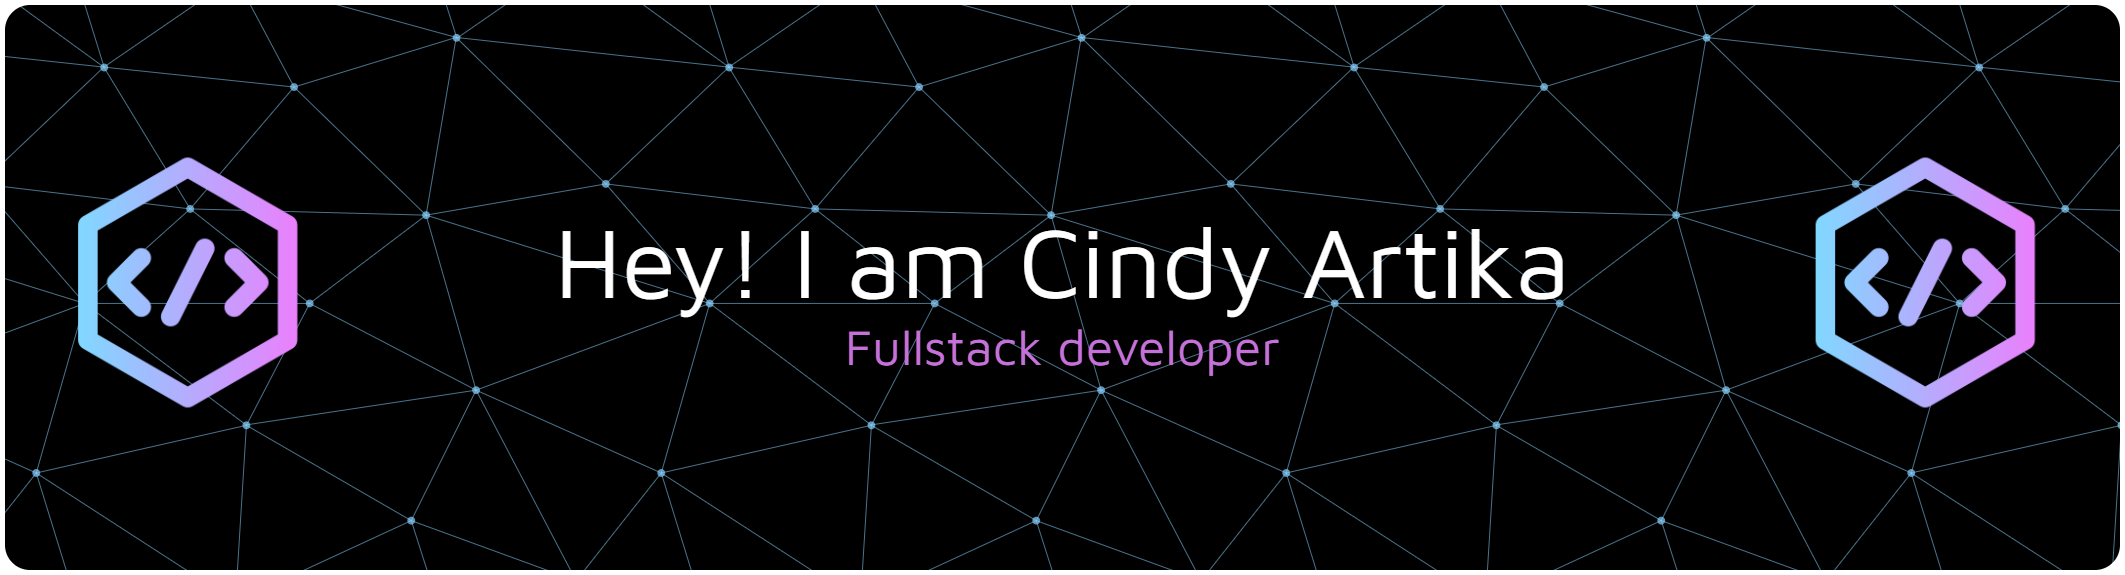
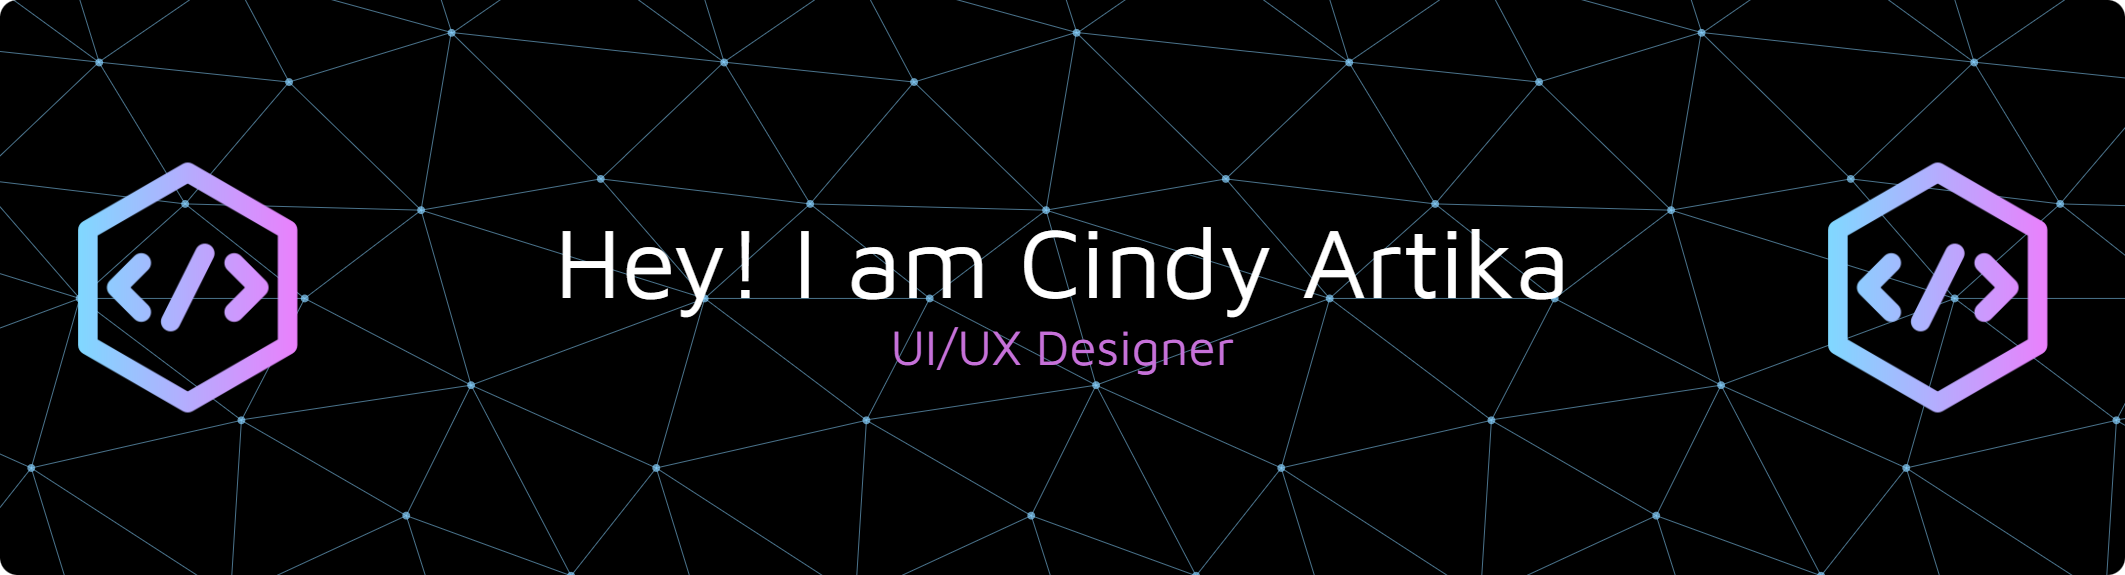
udah

diff --git a/README.md b/README.md
@@ -9,12 +9,12 @@
 <img src="https://capsule-render.vercel.app/api?type=rect&color=gradient&height=2"/>
 
 ### 💫 About Me
---
-I am a **Beginner Programmer** and an undergraduate student at  
+
+I am an undergraduate student at  
 **University of North Sumatra (USU)** majoring in **Information Technology**.
 
-I am passionate about web development and continuously improving  
-my skills in programming and technology 🚀
+I am passionate about UI/UX Design, focusing on creating intuitive, user-centered, and visually engaging digital experiences.  
+I enjoy turning ideas into meaningful interface designs while continuously improving my creative and technical skills 🚀
 
 <img src="https://capsule-render.vercel.app/api?type=waving&height=80&color=auto&section=footer"/>
 
